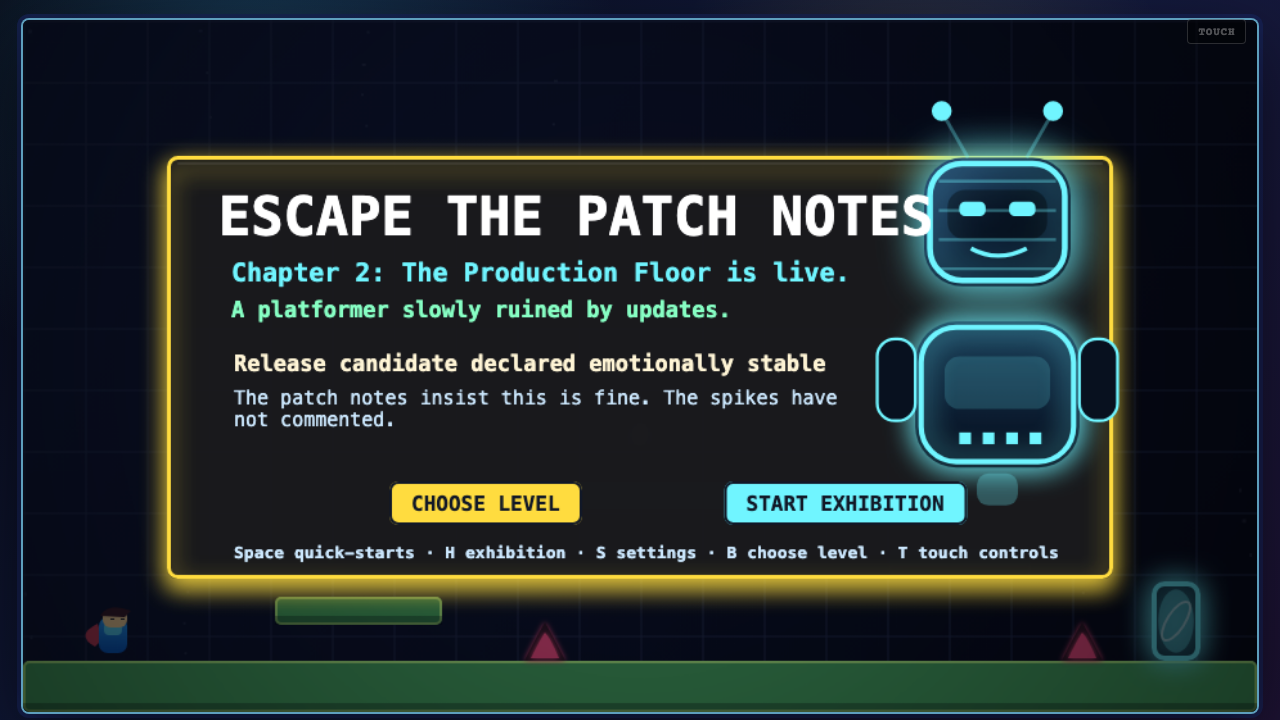
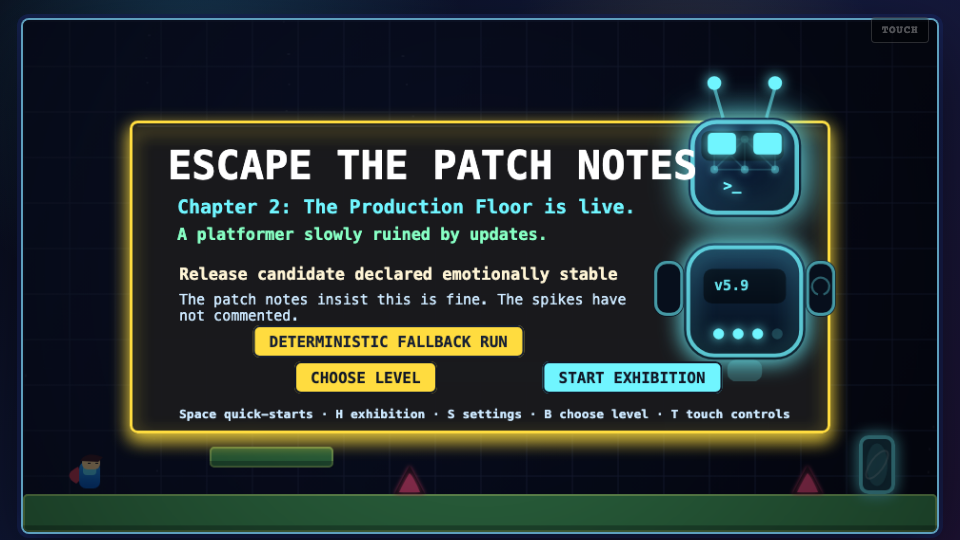
Refresh all screenshots and update JUDGES.md for 50-level renumber and AI character redesign

Changed region(s): [[0.0, 0.0, 1.0, 1.0], [0.3438, 0.8296, 0.375, 0.8593], [0.1875, 0.8296, 0.2188, 0.8593]]

diff --git a/JUDGES.md b/JUDGES.md
@@ -4,73 +4,91 @@
 **Public repo:** https://github.com/Caleb-Todd-commits/Escape-The-Patch-Notes  
 **Short pitch:** a browser platformer slowly ruined by its own updates.
 
-Escape the Patch Notes is a 55-level Vite + TypeScript + Canvas platformer. Chapter 1 starts as a broken patch-note comedy game: jump height gets nerfed, coins attract spikes, gravity rotates, platforms crumble, exits charge fees, and the final stability patches stack previous mistakes together. Chapter 2 moves into The Production Floor, a faster neon tech gauntlet with lasers, razors, crushers, sensors, plasma vents, conveyors, double jump, and an AI release overseer replacing the human engineer.
+Escape the Patch Notes is a 50-level Vite + TypeScript + Canvas platformer built entirely with Codex. Chapter 1 (Patches 1.0–3.4) starts as a normal coin-and-exit platformer, then the updates arrive: jump height gets nerfed, coins attract spikes, gravity rotates, platforms crumble, exits charge fees, and the final stability patches stack previous mistakes together. Chapter 2 (Patches 3.5–5.9) moves into The Production Floor — a faster neon tech gauntlet with conveyors, laser gates, razor rails, crushers, tesla arcs, sensors, plasma vents, an unlockable double jump, and an AI release overseer replacing the human engineer.
 
 ## Recommended 5-Minute Judging Path
 
 1. Open the playable link.
 2. Click **Start Exhibition** on the title screen.
-3. Play the seven curated patches. They show the core joke, the mechanical variety, Chapter 2, double jump, and the finale.
-4. Press `B` or choose **Choose Level** to inspect both chapter pages.
-5. Go to Chapter 2 and jump to Patch `6.4` if you want the hardest Production Floor finale immediately.
+3. Play the seven curated patches. They show the core joke, mechanical variety, Chapter 2, double jump, and the finale.
+4. Press `B` to open Choose Level and inspect both chapter pages.
+5. Jump directly to Patch `5.9` (level 50) via Settings → Jump to Level for the hardest Production Floor finale.
 6. Replay any cleared level to see its Challenge Patch objective and star.
 
-## Photos / Screenshots
+## Screenshots
 
-| Title | Exhibition Intro |
+| Title screen | Exhibition intro |
 |---|---|
 | ![Title screen](public/screenshots/title.png) | ![Exhibition intro](public/screenshots/exhibition-intro.png) |
 
-| Choose Level | Production Finale |
+| Chapter 1 — all 25 patches cleared | Chapter 2 — Production Floor board |
 |---|---|
-| ![Choose Level judge route](public/screenshots/choose-level-judge-route.png) | ![Production finale](public/screenshots/exhibition-production-finale.png) |
+| ![Choose Level Chapter 1 complete](public/screenshots/choose-level-chapter-1.png) | ![Choose Level Chapter 2](public/screenshots/choose-level-chapter-2.png) |
 
-| Double Jump Unlock | Exhibition Report |
+| Double jump unlock (Patch 3.7) | Production Floor finale (Patch 5.9) |
 |---|---|
-| ![Double jump unlock](public/screenshots/exhibition-double-jump.png) | ![Exhibition final report](public/screenshots/exhibition-final-report.png) |
+| ![Double jump unlock](public/screenshots/exhibition-double-jump.png) | ![Production finale](public/screenshots/exhibition-production-finale.png) |
+
+| Win screen — Grade S, all 50 patches | Exhibition complete report |
+|---|---|
+| ![Win screen](public/screenshots/win-screen.png) | ![Exhibition final report](public/screenshots/exhibition-final-report.png) |
 
 ## Exhibition Route
 
-The in-game **Start Exhibition** button plays these patches in order:
+The in-game **Start Exhibition** button plays these seven patches in order:
 
 | Patch | Level | Screenshot | Why It Matters |
 |---|---:|---|---|
-| `1.2` | 3 | [gameplay](public/screenshots/exhibition-level-1-2.png) | Coins attract spikes. This is the first clear "bad update" joke with real mechanical consequences. |
-| `1.3` | 4 | [route](public/screenshots/exhibition-intro.png) | Gravity rotates sideways, showing the game can change rules dramatically without changing controls. |
-| `3.9` | 30 | [route](public/screenshots/exhibition-intro.png) | Chapter 1 finale. It bundles earlier broken mechanics into a more chaotic stability patch. |
-| `4.2` | 33 | [unlock](public/screenshots/exhibition-double-jump.png) | Double jump unlock. This is the cleanest bridge into Chapter 2's faster movement. |
-| `4.9` | 40 | [choose level](public/screenshots/choose-level-judge-route.png) | First Production Floor finale with modern hazards and double-jump routing. |
-| `5.8` | 49 | [choose level](public/screenshots/choose-level-judge-route.png) | Compressed hazard showcase with conveyors, lasers, razors, crushers, jump pads, coins, and fee pressure. |
-| `6.4` | 55 | [finale](public/screenshots/exhibition-production-finale.png) | True Production Floor finale with every major hazard family online. |
+| `1.2` | 3 | ![](public/screenshots/exhibition-level-1-2.png) | Coins attract spikes — the first "bad update" joke with real mechanical consequences. |
+| `1.3` | 4 | ![](public/screenshots/chapter-2-intro.png) | Gravity rotates sideways, showing the game can completely change rules without changing controls. |
+| `3.4` | 25 | ![](public/screenshots/production-finale.png) | Chapter 1 finale — bundles all previous broken mechanics into one stability patch. |
+| `3.7` | 28 | ![](public/screenshots/exhibition-double-jump.png) | Double jump unlock, bridging Chapter 1 and the Production Floor's faster movement. |
+| `4.4` | 35 | ![](public/screenshots/exhibition-production-finale.png) | First Production Floor finale with lasers, razors, crushers, plasma vents, and moving exits. |
+| `5.3` | 44 | ![](public/screenshots/choose-level-judge-route.png) | Compact all-hazard gauntlet — every Chapter 2 hazard type in one level. |
+| `5.9` | 50 | ![](public/screenshots/win-screen.png) | True finale — three conveyors, every hazard, fee of 10 coins, rollback tokens on the floor. |
 
 ## Controls
 
-- Move: `A/D` or left/right arrows
-- Jump: `Space`, `W`, or up arrow
-- Double jump: press jump again in the air after it unlocks in Chapter 2
-- Restart level: `R`
-- Pause: `Esc`
-- Mute: `M`
-- Choose Level: `B`
-- Settings: `S` from title or pause
-- Exhibition shortcut: `H` on the title screen
-- Choose Level chapter page: `Q/E`
-- Choose Level deploy selected patch: `Enter` or `Space`
+| Action | Keys |
+|---|---|
+| Move | `A/D` or `←/→` arrows |
+| Jump | `Space`, `W`, or `↑` arrow |
+| Double jump | Press jump again in the air (Chapter 2 only) |
+| Restart level | `R` |
+| Pause | `Esc` |
+| Mute | `M` |
+| Choose Level | `B` |
+| Settings | `S` from title or pause |
+| Exhibition shortcut | `H` on the title screen |
+| Switch chapter page | `Q / E` on Choose Level |
+| Deploy selected patch | `Enter` or `Space` on Choose Level |
 
 ## Replay Challenges
 
-The first time you beat a level, the objective is simple: reach the exit. After that level is cleared, replaying it unlocks a Challenge Patch objective. Chapter 1 usually asks for a hidden bug report. Chapter 2 uses arcade goals such as all coins, par time, no sensors, no rollback, no double jump, or master finale objectives. A clear gives a checkmark; a challenge clear gives a star.
+First clear of each level: just reach the exit. After a level is cleared, replaying it unlocks a Challenge Patch objective displayed on the patch intro card.
 
-## AI and Fallback
+- **Chapter 1:** usually collect a hidden bug report before reaching the exit.
+- **Chapter 2:** arcade goals — all coins, beat par time, avoid sensors, skip rollback tokens, no double jump, or a master objective combining all of the above.
 
-The OpenAI API is used only for run flavor: run title, patch-note copy, severity labels, jokes, engineer/AI commentary, death quips, and final recap. It never generates collision boxes, level layouts, physics, hazards, score rules, or win/loss rules.
+Challenge clears earn a star. Stars, medals, and best times are all tracked per level on the Choose Level board and the final release report.
 
-The game is fully playable without an API key. If the serverless API is unavailable, the game uses a deterministic fallback run and shows that positively as a fallback build. No API keys, tokens, secrets, or `.env` files are committed.
+## AI Integration
 
-## What To Look For
+The OpenAI Responses API generates run flavor via Structured Outputs:
 
-- The first few patches teach the joke quickly: every update makes the game worse in a readable way.
-- Chapter 2 changes the scenario completely with smoother neon production-floor visuals and a non-human AI overseer.
-- Exhibition mode gives judges the best material without requiring a full 55-level clear.
-- Choose Level lets you jump anywhere, including the finale, so judging never gets blocked by progression.
-- Replay challenges add depth without hiding the main game behind completion gates.
+- Run title and build name
+- Per-level patch-note headline, copy, and severity label
+- Engineer / AI overseer commentary (devLines) for each patch
+- Death quips (deathLines) referencing the specific hazard that killed the player
+- Finale recap and game-over summary
+
+The AI never generates collision boxes, level layouts, physics values, hazard positions, score rules, or win/loss conditions. All gameplay is deterministic and fully playable with the fallback copy when the API is unavailable. No API keys, tokens, or secrets are committed to the repo.
+
+## What to Look For
+
+- The first few patches teach the core joke quickly: every update makes the game measurably worse in a readable way.
+- Chapter 2 shifts the scenario completely — neon production-floor visuals, new hazard classes with clear warning states, and a non-human AI overseer with four distinct moods.
+- The AI overseer reacts to context: confident on the title, worried on the chapter intro, proud on level complete, exhausted after multiple deaths.
+- Exhibition gives judges the best material without requiring a full 50-level clear.
+- Choose Level and Settings → Jump to Level mean judging is never blocked by progression — any level is one keypress away.
+- The final release report grades the full run (S → SHIP?) and lists every patch medal, time, and challenge star.
